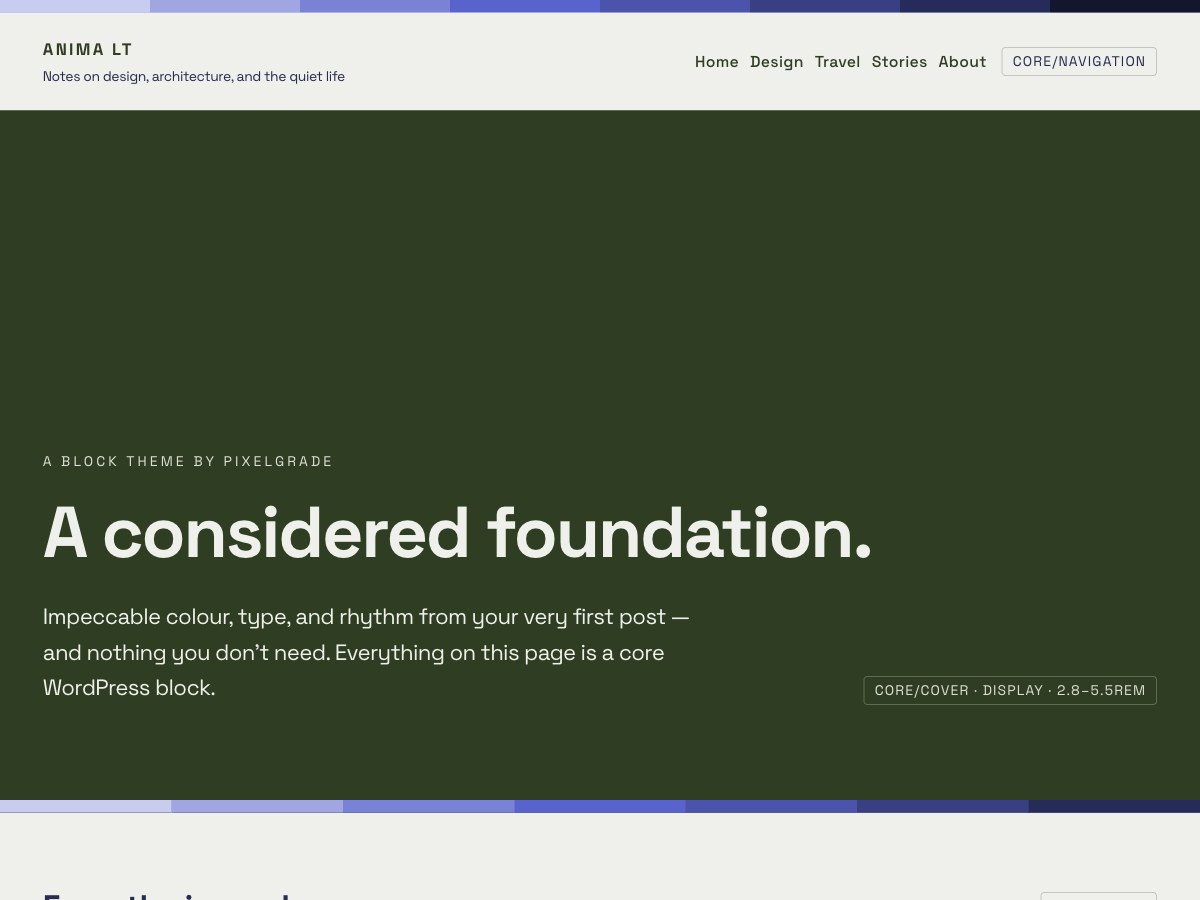
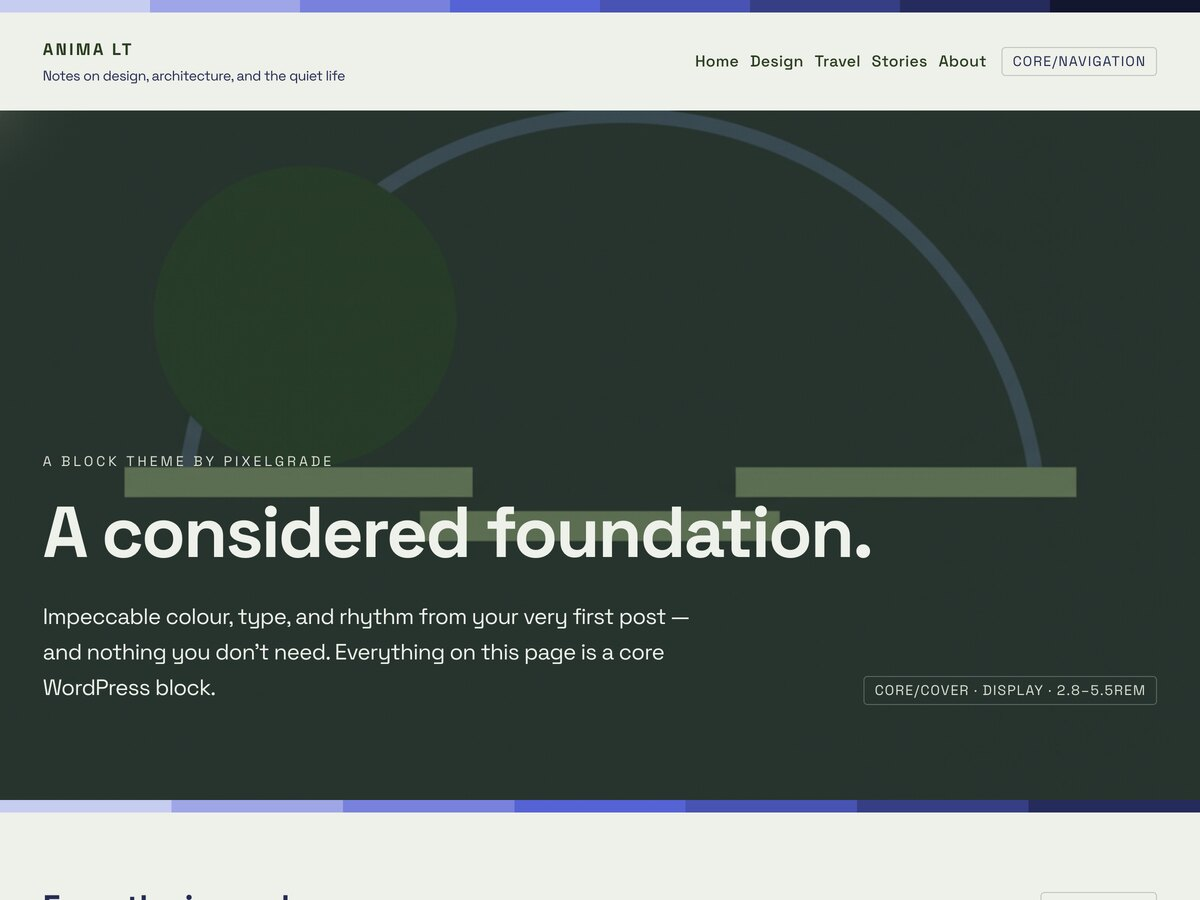
Richer wp.org screenshot via a bundled abstract cover image
The front-page hero now carries an original abstract cover image (theme
palette, deep indigo with periwinkle/sage/green geometric accents) behind
the 'A considered foundation' headline at a 60% contrast overlay, so the
headline stays legible. The directory screenshot.jpg is a fresh 1200x900
capture of that real front page — still a genuine render of the theme, so
it stays wp.org-compliant rather than a standalone illustration.

Image is wp.org-build-only (wporg/assets/images/cover-foundation.jpg),
GPL-licensed as original artwork, credited in readme.txt + assets/images/
LICENSE.md. Cover block verified valid (no invalid-content warning),
Theme Check still PASS.

Fixes #538

diff --git a/wporg/patterns/hero-design-cover.php b/wporg/patterns/hero-design-cover.php
@@ -7,9 +7,10 @@
  * Inserter: true
  */
 ?>
-<!-- wp:cover {"overlayColor":"contrast","dimRatio":100,"minHeight":78,"minHeightUnit":"vh","contentPosition":"bottom center","align":"full","style":{"spacing":{"padding":{"top":"5rem","right":"0","bottom":"0","left":"0"},"blockGap":"1.6rem"}},"layout":{"type":"constrained"}} -->
+<!-- wp:cover {"url":"<?php echo esc_url( get_theme_file_uri( 'assets/images/cover-foundation.jpg' ) ); ?>","dimRatio":60,"overlayColor":"contrast","minHeight":78,"minHeightUnit":"vh","contentPosition":"bottom center","align":"full","style":{"spacing":{"padding":{"top":"5rem","right":"0","bottom":"0","left":"0"},"blockGap":"1.6rem"}},"layout":{"type":"constrained"}} -->
 <div class="wp-block-cover alignfull has-custom-content-position is-position-bottom-center" style="padding-top:5rem;padding-right:0;padding-bottom:0;padding-left:0;min-height:78vh">
-	<span aria-hidden="true" class="wp-block-cover__background has-contrast-background-color has-background-dim-100 has-background-dim"></span>
+	<span aria-hidden="true" class="wp-block-cover__background has-contrast-background-color has-background-dim-60 has-background-dim"></span>
+	<img class="wp-block-cover__image-background" alt="" src="<?php echo esc_url( get_theme_file_uri( 'assets/images/cover-foundation.jpg' ) ); ?>" data-object-fit="cover"/>
 	<div class="wp-block-cover__inner-container">
 		<!-- wp:group {"align":"wide","style":{"spacing":{"blockGap":"1.2rem"}}} -->
 		<div class="wp-block-group alignwide">

diff --git a/wporg/assets/images/LICENSE.md b/wporg/assets/images/LICENSE.md
@@ -1,0 +1,8 @@
+# Bundled images
+
+`cover-foundation.jpg` — an original abstract geometric artwork created by
+Pixelgrade for this theme, in the theme's own colour palette. It is used as the
+front-page hero background.
+
+License: **GNU General Public License v2 or later** (the same license as the
+theme). You may use, modify, and redistribute it under those terms.